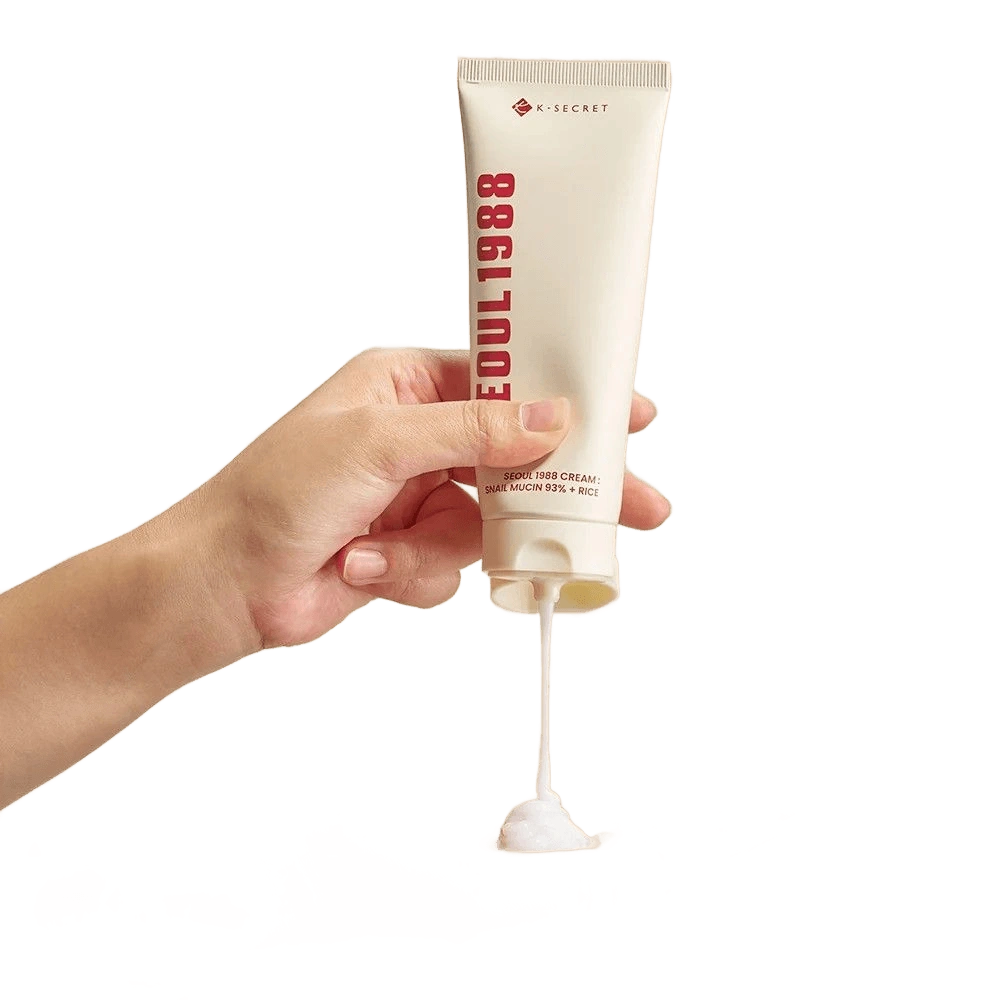
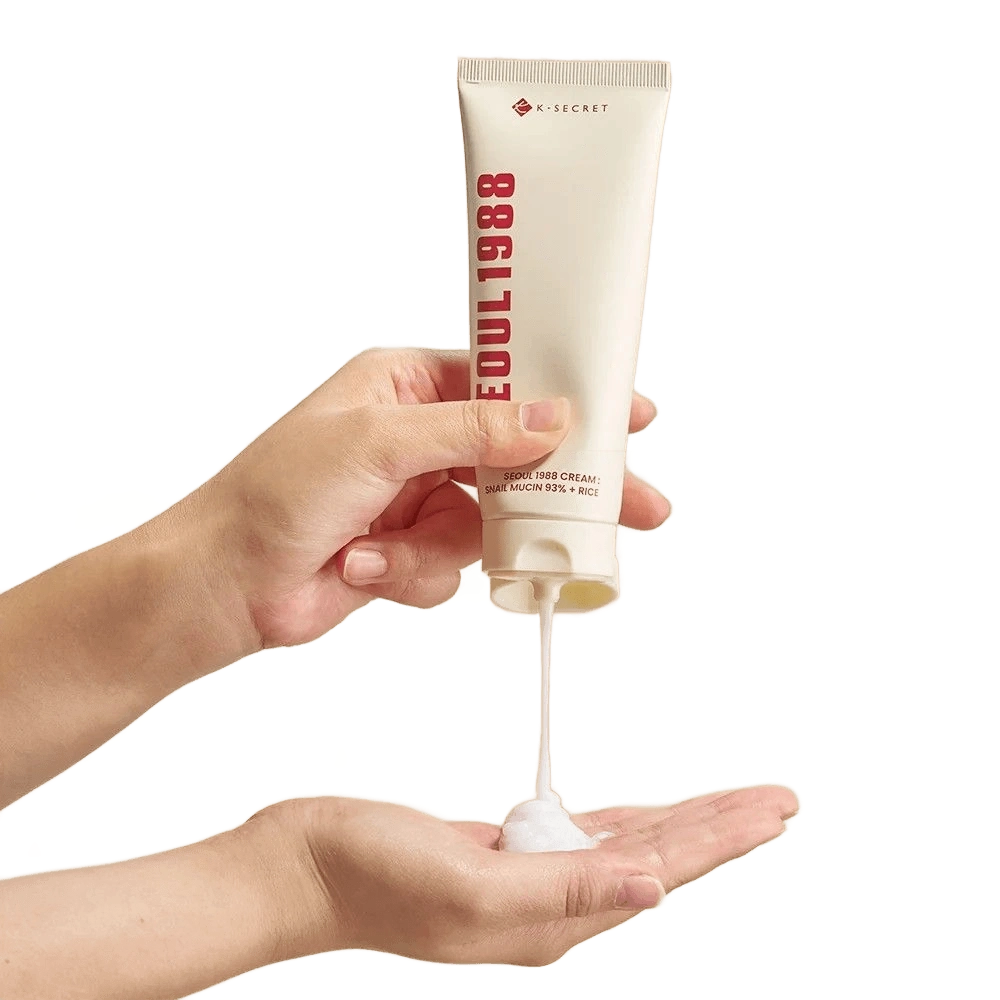
fix(order): restore both hands and add luxury halo circle backdrop with soft shadows

Changed region(s): [[0.0, 0.775, 0.806, 1.0]]

diff --git a/landing-page-2/components/OrderSection.tsx b/landing-page-2/components/OrderSection.tsx
@@ -134,16 +134,25 @@ export default function OrderSection() {
         ) : (
           <div className="grid grid-cols-1 lg:grid-cols-12 gap-8 items-center max-w-6xl mx-auto overflow-visible">
 
-            {/* Left Side: Hand + Product Image */}
+            {/* Left Side: Hand + Product Image with soft colored circle & shadow */}
             <div className="lg:col-span-5 hidden lg:flex items-center justify-center relative overflow-visible">
-              <div className="relative -ml-16 xl:-ml-24 w-full max-w-[480px]">
+              <div className="relative -ml-12 xl:-ml-20 w-full max-w-[500px] flex items-center justify-center">
+                {/* Soft ambient colored glow */}
+                <div className="absolute top-1/2 left-1/2 -translate-x-1/2 -translate-y-1/2 w-[460px] h-[460px] rounded-full bg-gradient-to-br from-[#74070D]/10 via-[#F3E3B2]/30 to-transparent blur-3xl pointer-events-none" />
+
+                {/* Soft colored luxury circle backdrop */}
+                <div className="absolute top-1/2 left-1/2 -translate-x-1/2 -translate-y-1/2 w-[390px] h-[390px] rounded-full bg-gradient-to-br from-[#FAF7EE] via-[#F4EEDC] to-[#E9DCBF] border border-[#F3E3B2] shadow-[0_20px_50px_rgba(49,15,16,0.08)] pointer-events-none" />
+
+                {/* Delicate outer concentric accent ring */}
+                <div className="absolute top-1/2 left-1/2 -translate-x-1/2 -translate-y-1/2 w-[430px] h-[430px] rounded-full border border-[#F3E3B2]/50 pointer-events-none" />
+
                 <Image
                   src="/images/order-hand-cream.webp"
                   alt="Seoul 1988 Cream — Snail Mucin 93% + Rice"
                   width={1080}
                   height={1080}
-                  className="w-full h-auto drop-shadow-2xl"
-                  quality={95}
+                  className="relative z-10 w-full h-auto drop-shadow-[0_22px_35px_rgba(49,15,16,0.20)]"
+                  quality={98}
                   priority={false}
                 />
               </div>
